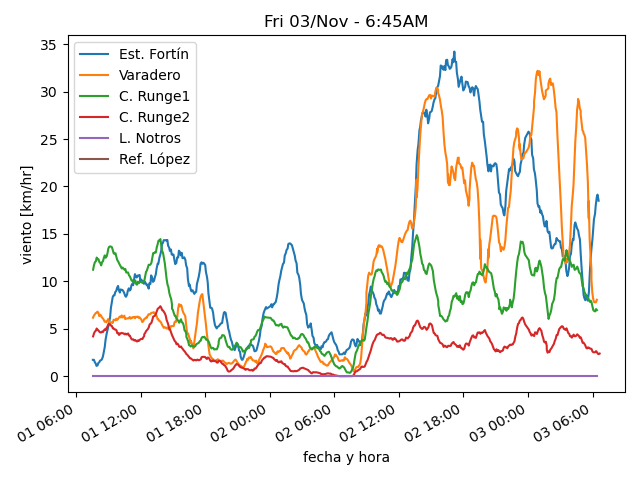
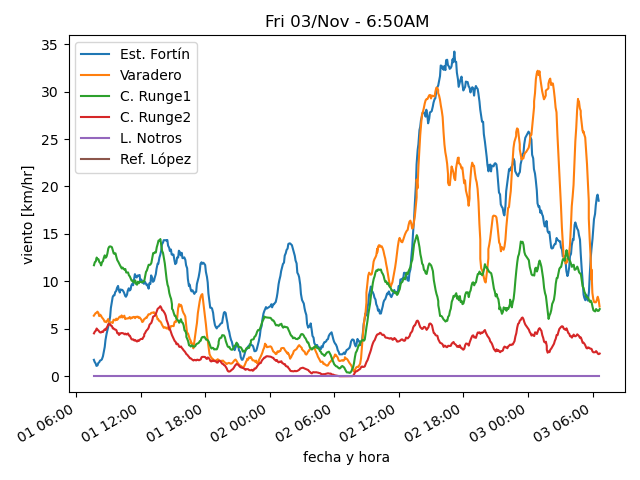
actualiza datos

diff --git a/estaciones/estacion2.html b/estaciones/estacion2.html
@@ -18,12 +18,12 @@
     </tr>
     <tr>
      <td class="stats_data">
-      6:24AM
+      6:39AM
      </td>
     </tr>
     <tr>
      <td class="stats_data">
-      6.7⁰C
+      6.6⁰C
      </td>
     </tr>
     <tr>
@@ -33,17 +33,17 @@
     </tr>
     <tr>
      <td class="stats_data">
-      69.3%
+      70.0%
      </td>
     </tr>
     <tr>
      <td class="stats_data">
-      1031.49hPa
+      1031.83hPa
      </td>
     </tr>
     <tr>
      <td class="stats_data">
-      7.0/9.5 km/hr WNW
+      3.1/4.8 km/hr SW
      </td>
     </tr>
     <tr>
@@ -58,7 +58,7 @@
     </tr>
     <tr>
      <td class="stats_data">
-      0.9 W/m²
+      8.2 W/m²
      </td>
     </tr>
    </tbody>

diff --git a/estaciones/estacion3.html b/estaciones/estacion3.html
@@ -18,12 +18,12 @@
     </tr>
     <tr>
      <td class="stats_data">
-      6:24AM
+      6:39AM
      </td>
     </tr>
     <tr>
      <td class="stats_data">
-      5.7⁰C
+      5.5⁰C
      </td>
     </tr>
     <tr>
@@ -33,17 +33,17 @@
     </tr>
     <tr>
      <td class="stats_data">
-      69.5%
+      70.1%
      </td>
     </tr>
     <tr>
      <td class="stats_data">
-      1011.04hPa
+      1011.24hPa
      </td>
     </tr>
     <tr>
      <td class="stats_data">
-      5.2/6.9 km/hr W
+      5.6/8.4 km/hr WNW
      </td>
     </tr>
     <tr>
@@ -58,7 +58,7 @@
     </tr>
     <tr>
      <td class="stats_data">
-      0.4 W/m²
+      7.3 W/m²
      </td>
     </tr>
    </tbody>

diff --git a/estaciones/estacion5.html b/estaciones/estacion5.html
@@ -18,27 +18,27 @@
     </tr>
     <tr>
      <td class="stats_data">
-      6:25AM
+      6:35AM
      </td>
     </tr>
     <tr>
      <td class="stats_data">
-      2.9⁰C
+      2.7⁰C
      </td>
     </tr>
     <tr>
      <td class="stats_data">
-      0.4⁰C
+      0.3⁰C
      </td>
     </tr>
     <tr>
      <td class="stats_data">
-      83.0%
+      84.0%
      </td>
     </tr>
     <tr>
      <td class="stats_data">
-      1024.86hPa
+      1025.06hPa
      </td>
     </tr>
     <tr>
